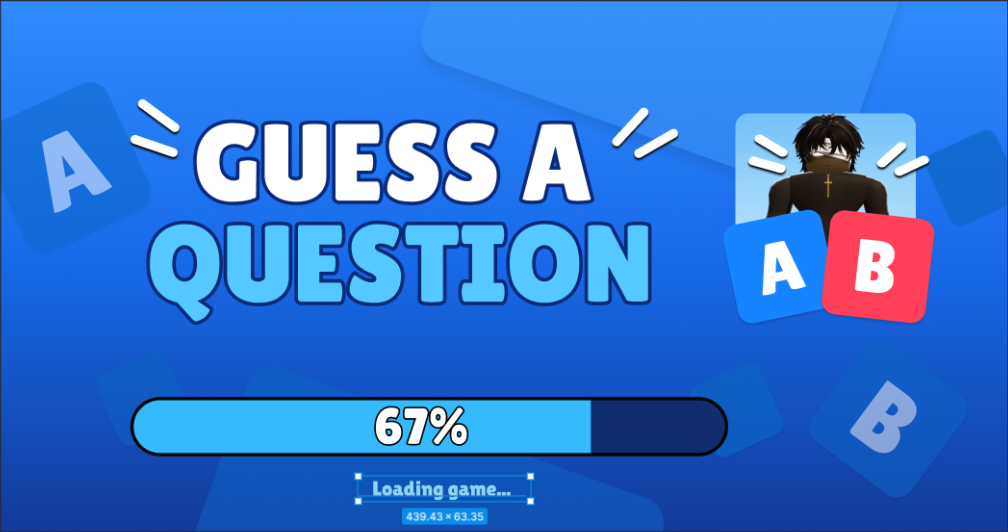
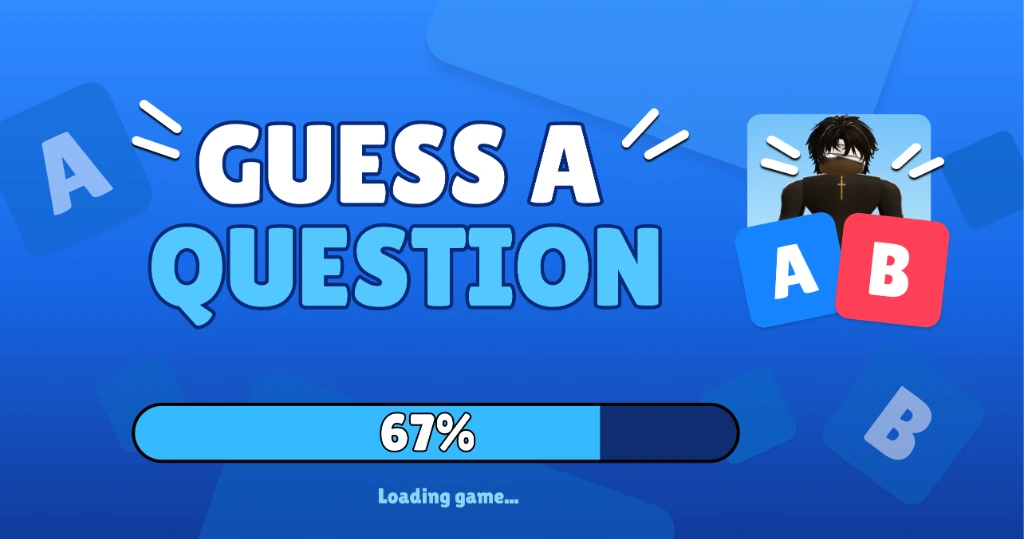
feat: replace loading screen image with high-res clean graphic (1024x539)

diff --git a/shop-ui.html b/shop-ui.html
@@ -101,7 +101,7 @@
             <span>Part 3</span>
           </button>
           <button class="video-thumb" type="button" data-index="3" role="tab" aria-selected="false" aria-label="Part 4: Trivia Loading Screen">
-            <img src="/images/ui-loading-screen.webp?v=1" alt="Part 4: Trivia Loading Screen" loading="lazy" decoding="async">
+            <img src="/images/ui-loading-screen.webp?v=20261109-10" alt="Part 4: Trivia Loading Screen" loading="lazy" decoding="async">
             <span>Part 4</span>
           </button>
           <button class="video-thumb" type="button" data-index="4" role="tab" aria-selected="false" aria-label="Part 5: Gift Countdown Timer HUD">
@@ -191,56 +191,4 @@
       {
         eyebrow: '// ui design / cartoony style',
         title: 'Trivia Game Loading Screen & Progress Bar',
-        img: '/images/ui-loading-screen.webp?v=1',
-        alt: 'Roblox Cartoony Trivia Loading Screen UI',
-        desc: 'Clean, high-energy cartoon loading screen designed for trivia and party games with 3D comic branding, avatar badge, and loading progress bar.'
-      },
-      {
-        eyebrow: '// ui design / stud style',
-        title: 'Playtime Gift Countdown HUD Widget',
-        img: '/images/ui-gift-timer.webp',
-        alt: 'Roblox Playtime Gift Countdown HUD Widget',
-        desc: 'Compact HUD launcher widget displaying real-time countdown timers for the player next playtime gift in the classic plastic stud aesthetic.'
-      },
-      {
-        eyebrow: '// ui design / stud style',
-        title: 'Trivia Lifelines & Power-Up Action Buttons',
-        img: '/images/ui-action-buttons.webp',
-        alt: 'Roblox Trivia Lifelines & Action Buttons',
-        desc: 'Tactile, stud-patterned gameplay action buttons designed for live trivia rounds, vote modifiers, and player abilities with high-contrast colors.'
-      },
-      {
-        eyebrow: '// ui design / stud style',
-        title: 'In-Game Notification & Server Alert Modal',
-        img: '/images/ui-notifications.webp',
-        alt: 'Roblox In-Game Notification & Server Alert Modal',
-        desc: 'High-visibility notification and alert window built for server-wide announcements, event notices, system warnings, and player prompt dialogs.'
-      }
-    ];
-
-    const mainImg = document.getElementById('shopMainImg');
-    const eyebrowEl = document.getElementById('shopEyebrow');
-    const titleEl = document.getElementById('shopTitle');
-    const descEl = document.getElementById('shopActiveDesc');
-    const thumbs = document.querySelectorAll('#shopGallery .video-thumb');
-
-    thumbs.forEach((btn, idx) => {
-      btn.addEventListener('click', () => {
-        thumbs.forEach(b => {
-          b.classList.remove('active');
-          b.setAttribute('aria-selected', 'false');
-        });
-        btn.classList.add('active');
-        btn.setAttribute('aria-selected', 'true');
-
-        const part = shopParts[idx];
-        mainImg.src = part.img;
-        mainImg.alt = part.alt;
-        eyebrowEl.textContent = part.eyebrow;
-        titleEl.textContent = part.title;
-        descEl.textContent = part.desc;
-      });
-    });
-  </script>
-</body>
-</html>
+        img: '/images/ui-loading-screen.webp?v=20261109-10

diff --git a/ui.html b/ui.html
@@ -17,15 +17,15 @@
   <meta property="og:site_name" content="Portfolio">
   <meta property="og:title" content="inbo | Roblox UI Design (Cartoony &amp; Stud Style)">
   <meta property="og:description" content="Custom cartoony, stud style &amp; clean Roblox UI design: player trading systems, playtime free gifts, daily rewards, loading screens, shop bundles, HUDs, and game interfaces.">
-  <meta property="og:image" content="https://inbodev.com/images/ui-loading-screen.png?v=20261109-1">
+  <meta property="og:image" content="https://inbodev.com/images/ui-loading-screen.png?v=20261109-10">
   <meta property="og:image:type" content="image/png">
-  <meta property="og:image:width" content="1008">
-  <meta property="og:image:height" content="532">
+  <meta property="og:image:width" content="1024">
+  <meta property="og:image:height" content="539">
   <meta property="og:image:alt" content="Roblox Cartoony Game Loading Screen UI Design">
   <meta name="twitter:card" content="summary_large_image">
   <meta name="twitter:title" content="inbo | Roblox UI Design (Cartoony &amp; Stud Style)">
   <meta name="twitter:description" content="Custom cartoony &amp; stud style Roblox UI design: simulator inventory, daily rewards, loading screens, shop bundles, HUDs, and game interfaces.">
-  <meta name="twitter:image" content="https://inbodev.com/images/ui-loading-screen.png?v=20261109-1">
+  <meta name="twitter:image" content="https://inbodev.com/images/ui-loading-screen.png?v=20261109-10">
   <meta name="twitter:image:alt" content="Roblox Cartoony Game Loading Screen UI Design">
   <link rel="stylesheet" href="https://cdn.jsdelivr.net/npm/@fontsource/syne@5.1.0/latin.css">
   <link rel="stylesheet" href="https://cdn.jsdelivr.net/npm/@fontsource/fira-code@5.1.0/latin.css">

diff --git a/ui/index.html b/ui/index.html
@@ -17,15 +17,15 @@
   <meta property="og:site_name" content="Portfolio">
   <meta property="og:title" content="inbo | Roblox UI Design (Cartoony &amp; Stud Style)">
   <meta property="og:description" content="Custom cartoony, stud style &amp; clean Roblox UI design: player trading systems, playtime free gifts, daily rewards, loading screens, shop bundles, HUDs, and game interfaces.">
-  <meta property="og:image" content="https://inbodev.com/images/ui-loading-screen.png?v=20261109-1">
+  <meta property="og:image" content="https://inbodev.com/images/ui-loading-screen.png?v=20261109-10">
   <meta property="og:image:type" content="image/png">
-  <meta property="og:image:width" content="1008">
-  <meta property="og:image:height" content="532">
+  <meta property="og:image:width" content="1024">
+  <meta property="og:image:height" content="539">
   <meta property="og:image:alt" content="Roblox Cartoony Game Loading Screen UI Design">
   <meta name="twitter:card" content="summary_large_image">
   <meta name="twitter:title" content="inbo | Roblox UI Design (Cartoony &amp; Stud Style)">
   <meta name="twitter:description" content="Custom cartoony &amp; stud style Roblox UI design: simulator inventory, daily rewards, loading screens, shop bundles, HUDs, and game interfaces.">
-  <meta name="twitter:image" content="https://inbodev.com/images/ui-loading-screen.png?v=20261109-1">
+  <meta name="twitter:image" content="https://inbodev.com/images/ui-loading-screen.png?v=20261109-10">
   <meta name="twitter:image:alt" content="Roblox Cartoony Game Loading Screen UI Design">
   <link rel="stylesheet" href="https://cdn.jsdelivr.net/npm/@fontsource/syne@5.1.0/latin.css">
   <link rel="stylesheet" href="https://cdn.jsdelivr.net/npm/@fontsource/fira-code@5.1.0/latin.css">
